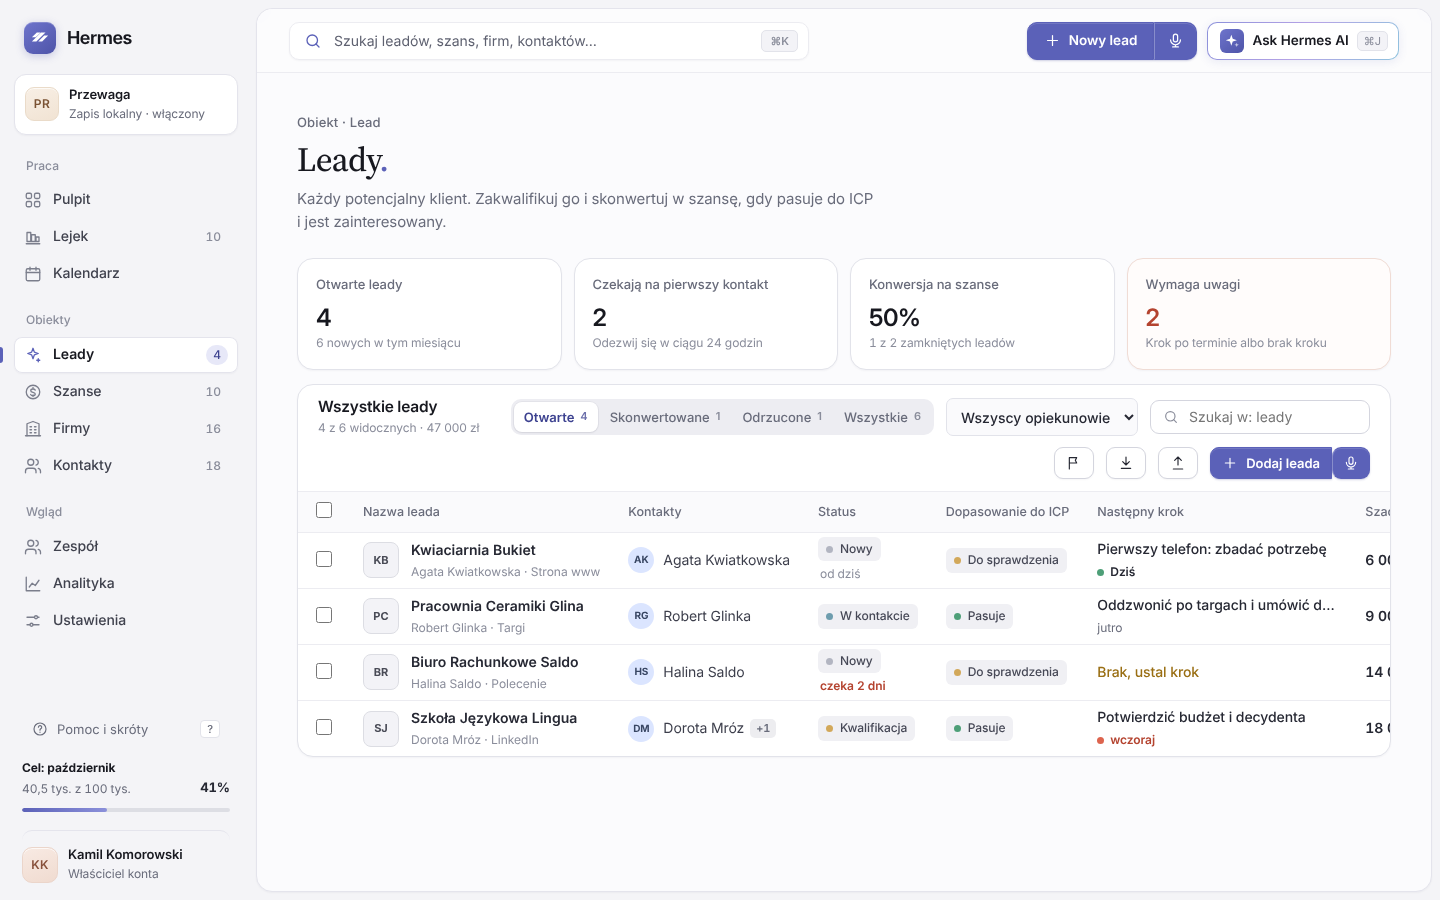
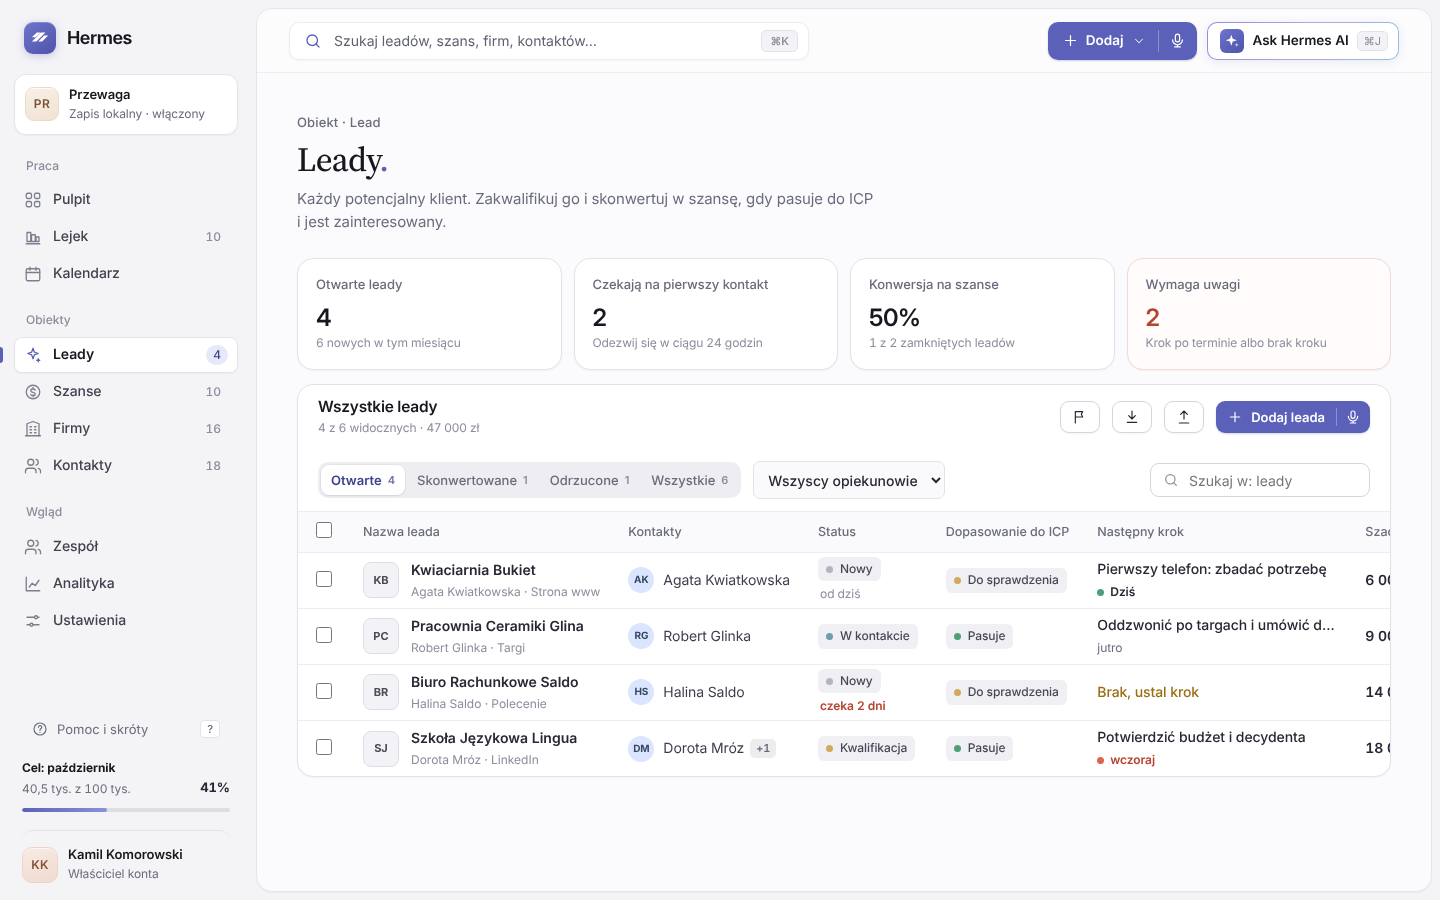
0.16.1: uniwersalny przycisk Dodaj, równe przyciski i pasek listy
Menu Dodaj z leadem, szansą, firmą, kontaktem, spotkaniem i głosem (klawisze
L, S, F, K, M, V). Przycisk dzielony z mikrofonem bez szpary. Pasek nad
listami w dwóch stałych rzędach.

Claude-Session: https://claude.ai/code/session_01R1vfiQ9rfMRgQmoGHFWZR1

diff --git a/index.html b/index.html
@@ -1362,6 +1362,43 @@ tr.row:hover td:first-child{box-shadow:inset 2px 0 var(--accent)}
 .bk-meta{margin:0 0 4px;font-size:13.5px;color:var(--mute)}
 @media (max-width:1180px){.cal-grid{grid-template-columns:1fr}}
 @media (max-width:600px){.sch-row,.sch-row.three{grid-template-columns:1fr}.ag-row{flex-wrap:wrap}.ag-acts{width:100%;padding-left:72px}.ag-tag{display:none}.agenda{padding:4px 16px 12px}}
+
+/* -- v14.1: przycisk Dodaj z menu, spójne przyciski dzielone, porządek paska listy -- */
+.split-add{border-radius:10px;box-shadow:inset 0 1px 0 rgba(255,255,255,.14),0 1px 2px rgba(45,50,130,.22)}
+.split-add>.primary-button{border:0;border-radius:0;box-shadow:none}
+.split-add>.primary-button:first-child{border-radius:10px 0 0 10px}
+.split-add>.primary-button:last-child{border-radius:0 10px 10px 0}
+.split-add>.primary-button.sm:first-child{border-radius:9px 0 0 9px}.split-add>.primary-button.sm:last-child{border-radius:0 9px 9px 0}
+.split-add .split-mic{position:relative;padding:0 11px;border:0}
+.split-add .split-mic::before{content:'';position:absolute;left:0;top:8px;bottom:8px;width:1px;background:rgba(255,255,255,.3)}
+.split-add .split-mic.sm{padding:0 9px}
+.split-add .split-mic.sm::before{top:7px;bottom:7px}
+.add-wrap{position:relative}
+.add-main{gap:7px;padding:0 12px 0 14px}
+.add-caret{display:inline-grid;margin-left:2px;opacity:.85;transition:transform .15s}
+.add-caret svg{transform:rotate(90deg)}
+.add-main[aria-expanded="true"] .add-caret{transform:rotate(180deg)}
+.add-menu{position:absolute;top:calc(100% + 8px);right:0;z-index:40;width:340px;padding:6px;border-radius:14px;background:#fff;box-shadow:var(--sh-pop);animation:amIn .14s var(--ease)}
+.add-menu[hidden]{display:none}
+@keyframes amIn{from{opacity:0;transform:translateY(-4px)}to{opacity:1;transform:none}}
+.am-item{width:100%;display:flex;align-items:center;gap:12px;padding:8px 10px;border:0;border-radius:10px;background:transparent;text-align:left;cursor:pointer}
+.am-item:hover,.am-item:focus-visible{background:var(--soft);outline:0}
+.am-item.cur{background:var(--accent-soft)}
+.am-ic{width:32px;height:32px;display:grid;place-items:center;flex-shrink:0;border-radius:9px;background:var(--soft);color:var(--ink2)}
+.am-item.cur .am-ic{background:#fff;color:var(--accent-ink);box-shadow:inset 0 0 0 1px var(--accent-line)}
+.am-ic.voice{background:var(--accent-soft-2);color:var(--accent-ink)}
+.am-t{flex:1;min-width:0;display:flex;flex-direction:column;gap:1px}
+.am-t b{font-size:14px;font-weight:600;color:var(--ink)}.am-t small{font-size:12.5px;color:var(--mute)}
+.am-item kbd{min-width:22px;height:22px;display:grid;place-items:center;border:1px solid var(--line);border-radius:6px;background:var(--soft);color:var(--faint);font:500 11.5px var(--ui)}
+.am-sep{height:1px;margin:6px 8px;background:var(--line2)}
+/* pasek listy: tytuł i akcje w pierwszym rzędzie, filtry i wyszukiwanie w drugim */
+.toolbar{row-gap:12px}
+.toolbar>.ttl{order:0;margin-right:auto}
+.toolbar>.ghost-button,.toolbar>.split-add{order:1}
+.toolbar>[data-act="view-save"]{margin-left:0}
+.toolbar::after{content:'';order:2;flex-basis:100%;height:0}
+.toolbar>.seg,.toolbar>.owner-sel{order:3}
+.toolbar>.field-search{order:4;margin-left:auto}
 </style>
 </head>
 <body>
@@ -1907,12 +1944,40 @@ function addTarget() {
   if (state.page === 'pipeline') return state.pView === 'lead' ? ['lead', ADD_LABEL.lead] : ['deal', ADD_LABEL.deal];
   return ['lead', ADD_LABEL.lead];
 }
+const ADD_ITEMS = [['lead', 'Lead', 'spark', 'Klient do sprawdzenia', 'L'], ['deal', 'Szansa', 'deal', 'Klient w procesie sprzedaży', 'S'], ['company', 'Firma', 'building', 'Konto klienta', 'F'], ['contact', 'Kontakt', 'person', 'Osoba w firmie', 'K']];
+function addMenu(cur) {
+  return `<div class="add-menu" id="addMenu" role="menu" aria-label="Dodaj" hidden>
+    ${ADD_ITEMS.map(([o, l, i, d, k]) => `<button role="menuitem" class="am-item${o === cur ? ' cur' : ''}" data-act="add" data-obj="${o}"><span class="am-ic">${ic(i, 16)}</span><span class="am-t"><b>${l}</b><small>${d}</small></span><kbd>${k}</kbd></button>`).join('')}
+    <div class="am-sep" role="separator"></div>
+    <button role="menuitem" class="am-item" data-act="appt-new"><span class="am-ic">${ic('meet', 16)}</span><span class="am-t"><b>Spotkanie</b><small>Umów termin z klientem</small></span><kbd>M</kbd></button>
+    <button role="menuitem" class="am-item" data-act="voice"><span class="am-ic voice">${ic('mic', 16)}</span><span class="am-t"><b>Powiedz</b><small>Hermes rozpozna, co dodać</small></span><kbd>V</kbd></button>
+  </div>`;
+}
+function addMenuToggle(open) {
+  const m = $('#addMenu'), b = $('[data-act="add-menu"]'); if (!m || !b) return;
+  const on = open === undefined ? m.hidden : open;
+  m.hidden = !on; b.setAttribute('aria-expanded', String(on));
+  if (on) { const f = m.querySelector('.am-item.cur') || m.querySelector('.am-item'); if (f) f.focus(); }
+}
+document.addEventListener('click', e => {
+  const t = e.target.closest('[data-act="add-menu"]');
+  if (t) { e.preventDefault(); addMenuToggle(); return; }
+  const m = $('#addMenu'); if (m && !m.hidden) addMenuToggle(false);
+}, true);
+document.addEventListener('keydown', e => {
+  const m = $('#addMenu'); if (!m || m.hidden) return;
+  if (e.key === 'Escape') { e.preventDefault(); addMenuToggle(false); const b = $('[data-act="add-menu"]'); if (b) b.focus(); return; }
+  const items = [...m.querySelectorAll('.am-item')], i = items.indexOf(document.activeElement);
+  if (e.key === 'ArrowDown' || e.key === 'ArrowUp') { e.preventDefault(); const n = items[(i + (e.key === 'ArrowDown' ? 1 : -1) + items.length) % items.length]; if (n) n.focus(); return; }
+  const k = e.key.toUpperCase(), hit = items.find(x => (x.querySelector('kbd') || {}).textContent === k);
+  if (hit && !e.metaKey && !e.ctrlKey) { e.preventDefault(); e.stopPropagation(); hit.click(); }
+}, true);
 function renderTop() {
   const [obj, label] = addTarget();
   $('#topbar').innerHTML = `
     <button class="search" data-act="cmdk" aria-label="Szukaj (⌘K lub /)">${ic('search', 18)}<span>Szukaj leadów, szans, firm, kontaktów…</span><kbd>⌘K</kbd></button>
     <div class="top-actions">
-      <div class="split-add"><button class="primary-button" data-act="add" data-obj="${obj}">${ic('plus', 17)}${label}</button><button class="primary-button split-mic" data-act="voice" aria-label="Dodaj głosem (V)" title="Dodaj głosem: firmę, kontakt, leada albo szansę, także wszystko naraz (V)">${ic('mic', 17)}</button></div>
+      <div class="add-wrap"><div class="split-add"><button class="primary-button add-main" data-act="add-menu" aria-haspopup="menu" aria-expanded="false" aria-controls="addMenu" title="Dodaj (N dodaje: ${esc(label.toLowerCase())})">${ic('plus', 17)}Dodaj<span class="add-caret">${ic('chevron', 14)}</span></button><button class="primary-button split-mic" data-act="voice" aria-label="Dodaj głosem (V)" title="Dodaj głosem: firmę, kontakt, leada albo szansę, także wszystko naraz (V)">${ic('mic', 17)}</button></div>${addMenu(obj)}</div>
       <button class="ai-button" data-act="ai" aria-label="Ask Hermes AI (⌘J)"><span class="ai-spark">${SPARK(16)}</span>Ask Hermes AI<kbd>⌘J</kbd></button>
     </div>`;
 }

diff --git a/tests/audyt.test.js b/tests/audyt.test.js
@@ -74,4 +74,13 @@ click('[data-act="tpl-add"]');
 ok(E('settings.templates.length') === 6, 'nowy szablon');
 chg(`[data-tpl="name"][data-id="${E('settings.templates[4].id')}"]`, 'Oferta wstępna');
 ok(E('settings.templates[4].name') === 'Oferta wstępna', 'edycja nazwy szablonu');
+/* uniwersalny przycisk Dodaj z menu */
+E('closeModal(); state.page = "list"; state.obj = "deal"; render()');
+ok(/Dodaj/.test(txt('#topbar [data-act="add-menu"]')) && !/Nowa szansa|Nowy lead/.test(txt('#topbar')), 'górny przycisk jest uniwersalny');
+click('#topbar [data-act="add-menu"]');
+ok(!d.querySelector('#addMenu').hidden && d.querySelectorAll('#addMenu .am-item').length === 6, 'menu: lead, szansa, firma, kontakt, spotkanie, głos');
+ok(!!d.querySelector('#addMenu .am-item.cur[data-obj="deal"]'), 'menu wyróżnia obiekt z bieżącej strony');
+click('#addMenu [data-obj="company"]');
+ok(/Dodaj firmę/.test(txt('.modal')) && d.querySelector('#addMenu').hidden, 'wybór z menu otwiera formularz i zamyka menu');
+E('closeModal()');
 done(errs);

diff --git a/docs/przewodnik.md b/docs/przewodnik.md
@@ -135,7 +135,7 @@ Firmy i kontakty otwierają się w panelu bocznym. Panel zawiera dane do edycji,
 
 ![Hermes Voice](img/glos-nasluch.png)
 
-Przycisk dodawania w górnym pasku zmienia się zależnie od widoku: na Pulpicie dodaje leada, w Lejku szans szansę, na liście dany obiekt. Formularz leada i szansy od razu tworzy firmę i osobę kontaktową.
+Przycisk **„Dodaj”** w górnym pasku otwiera menu: lead, szansa, firma, kontakt, spotkanie albo głos. Każda pozycja ma klawisz (`L`, `S`, `F`, `K`, `M`, `V`), a obiekt z bieżącej strony jest wyróżniony. Klawisz `N` od razu dodaje to, co pasuje do widoku: na liście dany obiekt, w Lejku szansę, w pozostałych miejscach leada. Formularz leada i szansy od razu tworzy firmę i osobę kontaktową.
 
 Ikona **mikrofonu** przy przycisku dodawania (albo klawisz `V`) otwiera Hermes Voice. Mówisz naturalnie, a Hermes rozpoznaje firmę, kontakt, leada i szansę, także wszystko naraz.
 

diff --git a/CHANGELOG.md b/CHANGELOG.md
@@ -2,6 +2,15 @@
 
 Format według [Keep a Changelog](https://keepachangelog.com/pl/1.1.0/). Wersje przed 1.0 to etapy prototypu.
 
+## [0.16.1] · 31 października 2026
+
+### Zmienione
+- Górny przycisk „Dodaj” jest uniwersalny: menu z leadem, szansą, firmą, kontaktem, spotkaniem i głosem, z klawiszami i wyróżnieniem obiektu z bieżącej strony. Szerokość paska nie zmienia się już między stronami.
+- Pasek nad listami w dwóch stałych rzędach: tytuł i akcje u góry, filtry i wyszukiwanie pod spodem.
+
+### Naprawione
+- Przyciski dodawania z mikrofonem jako jedna bryła, bez szpary między częściami.
+
 ## [0.16.0] · 31 października 2026
 
 ### Dodane
